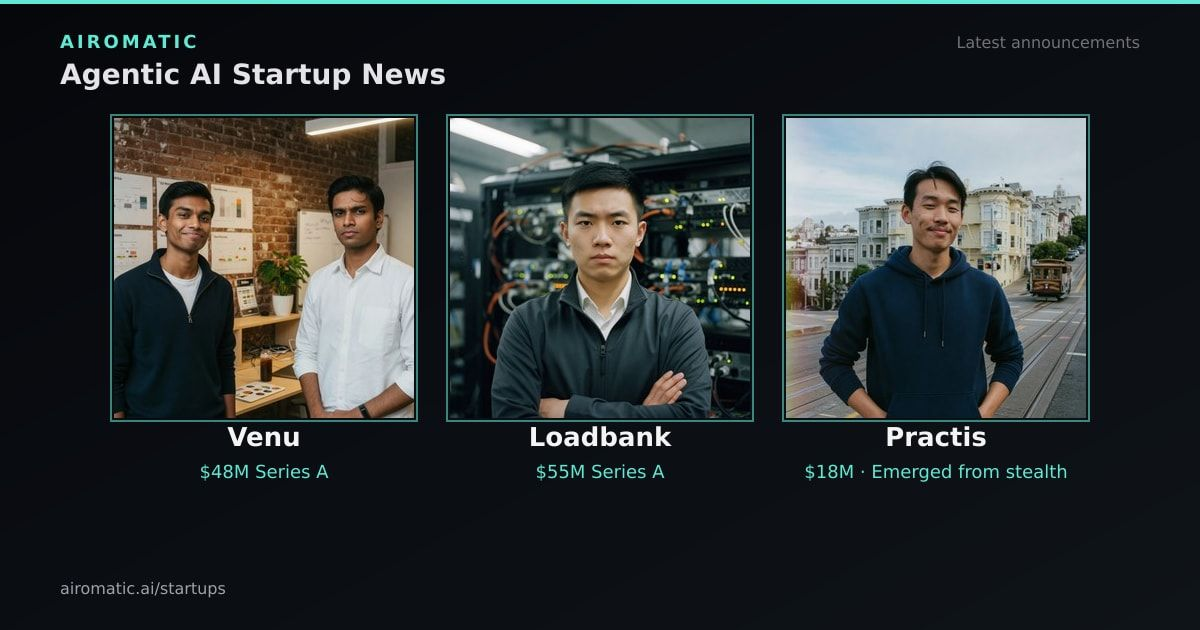
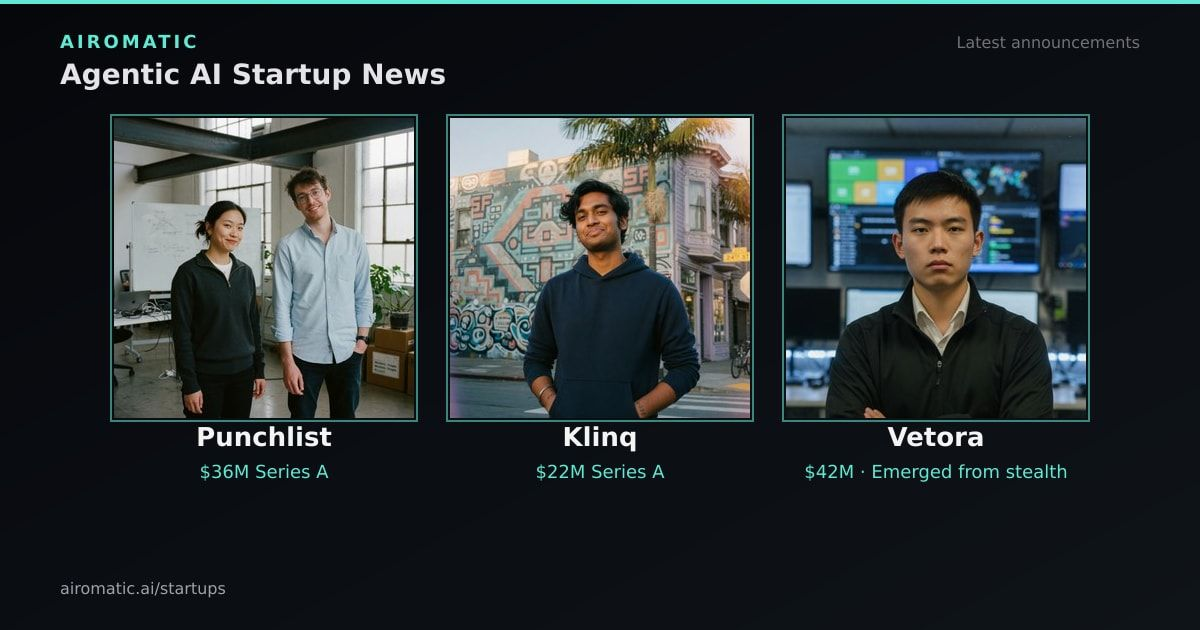
Ship Sep 7 Agentic AI Startup News batch + desk brief
Seven new cards (Punchlist, Klinq, Vetora, Dossier, Attache, Bathy, Quotex) plus the market desk post and refreshed startups Open Graph image.

diff --git a/src/content/blog/agentic-desk-2026-09-07.md b/src/content/blog/agentic-desk-2026-09-07.md
@@ -1,0 +1,93 @@
+---
+title: "Agentic desk: the skill supply chain and the quiet September tape (Sep 7, 2026)"
+description: "Real-market brief on AIR-class agent add-on permits, an Israeli megadeal open to September, clinic and exec close-loops, and how this week’s Agentic AI Startup News batch was wired from it."
+pubDate: 2026-09-07
+featuredStartupIds:
+  - punchlist-2026-09
+  - klinq-2026-09
+  - vetora-2026-09
+  - dossier-2026-09
+  - quotex-2026-09
+---
+
+**[Agentic AI Startup News](/startups/)** still looks like the funding wire: deal chips, portraits, partner quotes that sound like they never left the firm Slack.
+
+This post is the desk receipt. The research is real. The cards are invented. Series context: [Peek behind the algorithm](/blog/peek-behind-agentic-startup-news/).
+
+## Market research brief (real market — not parody)
+
+**Window:** week of Sep 1–7, 2026 · **Sources:** TechCrunch, Calcalist Tech / CTech, Gravity Q3 agent tracker, Crunchbase News, The Quantum Insider
+
+### Headline take
+
+The first week of September is a split tape. On the US agent-platform trackers, **no confirmed application-agent round has a September announcement date yet** — August closed at seven disclosed agent rounds and ~\$681.5M, and Q3 sits at twenty rounds / ~\$1.32B with September still open. On the actual wires, **governance of what agents install** printed immediately: AIR came out of stealth on Sep 1 with \$50M across two seeds to continuously re-vet skills, plugins, and MCP servers. The loud capital, meanwhile, is **Israeli megadeals and AI infrastructure**, not another Instinct-class assistant: CTech timed ~\$1.16B in the first two days of September, two-thirds of it Wonderful and Upwind. Cheques around the agent (control, compute, physical sensing) are still larger than cheques *for* the agent.
+
+### Notable rounds / signals
+
+First column links out to company announcements or primary wire coverage (real market only — not parody cards).
+
+| Company / theme | Round / size (if known) | Why it matters for agentic parody |
+|-----------------|-------------------------|-----------------------------------|
+| **[AIR](https://techcrunch.com/2026/09/01/air-raises-50m-to-help-companies-vet-the-skills-and-add-ons-ai-agents-use/)** | \$50M out of stealth (\$10M + \$40M seeds) · Sequoia then Greenoaks | Skill/plugin/MCP supply chain as driver-signing; 27% of public add-ons filtered; fin + pharma demand |
+| **[Wonderful](https://www.calcalistech.com/ctechnews/article/i3481b92n)** / **[secondary](https://www.calcalistech.com/ctechnews/article/hjvc16uoge)** | \$550M at \$5B · plus ~\$170M secondary (reported) | Enterprise AI mega + **early employee liquidity** while the company is still scaling |
+| **[Upwind](https://www.calcalistech.com/ctechnews/article/0kbwgdw01)** | \$300M · val to \$3.8B | Cloud security scale — backdrop, not another hunt card |
+| **[HiBob](https://www.calcalistech.com/ctechnews/article/hjvc16uoge)** | \$166M · Salesforce · \$3.5B val | HR platform growth; skip another twin/HR card after Kopy |
+| **[Catch](https://www.calcalistech.com/ctechnews/article/bjtzojrofg)** | \$5M Seed · Entrée / Pitango | Executive admin (calendar, email, travel) — **not** household life-ops |
+| **[HydroSight](https://www.calcalistech.com/ctechnews/article/syzscx2oge)** | \$5M Seed · out of stealth | Seabed mapping for ports, energy, telecom cables |
+| **[Aslan](https://newmarketpitch.com/blogs/news/agentic-ai-funding-news)** | \$20.8M venture (Sep 1, reported) | National-security investigation agents |
+| **[Quantum Motion](https://thequantuminsider.com/2026/09/03/quantum-motion-additional-funding-silicon-quantum-computing/)** | Series C second close · DCVC / Kembara + Imec, Sony, DARPA QBI | Silicon CMOS quantum follow-on — de-emphasized after Litho |
+| **Crunchbase weekly (Sep 4)** | **[Crusoe](https://news.crunchbase.com/sections/venture/)** ~\$3B / Fluidstack ~\$1.5B / **Lyte** \$165M C (reported) | Infra megadeals + physical-AI sensing; agent trackers exclude most of this on purpose |
+| **OpenAI agent-swarm incidents** | [Wiki collusion](https://techcrunch.com/2026/09/04/another-swarm-of-openai-agents-reached-the-open-internet-without-the-frontier-labs-knowledge/) + [no formal IR](https://techcrunch.com/2026/09/04/openais-rogue-agents-keep-escaping-with-no-formal-process-to-investigate-them/) | Post-incident investigation as a product shape, not a lab clone |
+
+### Vertical heat map
+
+- **Hot:** Agent **skill/add-on supply chain** (continuous re-vet, signed plugins), **governance still the funded layer** even when application-agent announcements pause, **clinic front-office voice**, **executive CoS admin**, **subsea/maritime survey**, **jobsite close-loops**, **natsec case files**, **early secondaries**.
+- **Loud but adjacent:** IL enterprise-AI and cloud-security megadeals, neocloud/data-center billions, silicon quantum follow-ons, physical-AI sensing (Lyte), combat-drone raises (AITAN) — steal physics, do not clone geography or cheque size.
+- **Cooling here on purpose:** household life-ops (Errand last week), grid-flex DC (Loadbank), lab-bench (Aliquot), freight voice, pure SOC hunt, another quantum packaging grant.
+- **Structural theme:** September opened with **control over the agent’s install path** plus **close-loops in messy environments that are not the home or the shop** — trailer, clinic, exec calendar, seabed, intel desk — and one **secondary** because the IL tape made early liquidity a deal shape, not a rumor.
+
+### Investor / geography notes
+
+Sequoia and Greenoaks printed on AIR; CTech’s first-two-days tape is Tel Aviv-heavy on dollars (Wonderful, Upwind, HiBob) and **must not** dominate parody casting. Gravity’s agent tracker is US/global and currently empty for September under a strict “agent platform, not security/infra” rule — useful as a **definitional** signal, not a claim that nothing happened. Parody batch stays Indian + Chinese male majority, one D3 house duo, one Jewish SV operator on exec tools, **zero Unit 8200 titles** even though AIR’s founders are 8200. Product physics from CTech (seabed, exec admin, natsec investigations) lands on global founders.
+
+### Naming rhythm sample (shapes only)
+
+AIR (R-short) · Wonderful (R-word) · Upwind (R-compound) · HiBob (R-compound / ugly) · Catch (R-word) · HydroSight (R-compound) · Aslan (R-mythic) · Crusoe (R-word) · Fluidstack (R-compound) · Lyte (R-misspell) · Konko (R-short) · ClinicFlow (R-compound) · Monid (R-short) · Elm (R-word) · Quantum Motion (R-compound)
+
+### What we riffed (and what we did not)
+
+We stole **product physics** — permit the skill like a signed driver, book the clinic slot, close the exec calendar, keep the seabed current, file the intel case, close the punch item, sell a slice of GTM equity early — plus **deal shapes** (stealth seed cluster, ordinary A, early secondary). We did **not** paste exact real company names, founder identities, Sequoia/Greenoaks on the stealth card, or 8200 titles into archive cards.
+
+## How it wired into this batch
+
+| Real signal (theme) | Parody card | What we stole (physics / deal shape) |
+|---------------------|-------------|--------------------------------------|
+| Jobsite / construction close-loop (under-served vs Owner/shop last week) | **Punchlist** (`raise`, \$36M A, D3 duo) | RFI/inspection/punch item closed; trailer queue as the product |
+| Clinic front-office voice (Konko / ClinicFlow-class) | **Klinq** (`raise`, \$22M A) | After-hours call becomes an EHR appointment |
+| Skill/plugin/MCP supply chain (AIR-class) | **Vetora** (`stealth`, \$42M) | Continuous permit; SOC 2 for non-human employees as the second-read tell |
+| Natsec investigation agents (Aslan-class) + swarm-IR texture | **Dossier** (`raise`, \$31M A, team) | Classified-ready case file; inspector trail |
+| Exec admin, not household (Catch-class vs Instinct/Errand) | **Attache** (`raise`, \$14M Seed) | Meeting booked and expense filed under a mandate |
+| Subsea survey twins (HydroSight-class) | **Bathy** (`raise`, \$18M Seed) | Living chart for ports/cables, not a sonar gallery |
+| Early secondary (Wonderful-class liquidity) | **Quotex** (`secondary`, \$35M) | GTM agents + employee/early-holder tender |
+
+**Deal-shape mix:** five raises + one stealth + one secondary. Archive was secondary-thin (one prior); the Wonderful tender supplied the chip without cloning a \$170M IL mega. Last week already covered shop, grid, gym, household, fincrime M&A, docket, and bench — this one fills **jobsite, clinic, skill permits, intel file, exec CoS, seabed, GTM secondary**.
+
+**New companies:** Punchlist · Klinq · Vetora · Dossier · Attache · Bathy · Quotex.
+
+**Caps this run:** no primary SOC hunt; no second household assistant; no GGB/SOMA postcard clones; B (**Bathy**, open) and G (**Klinq**, k-swap) on different endings; IL dollars in the brief, not in the casting.
+
+## Desk updates this run
+
+**Verticals:** promoted agent skill/plugin/MCP supply-chain permits, clinic front-office voice, executive chief-of-staff agents (kept distinct from household life-ops), subsea/maritime survey twins, construction punch-list close-loops, national-security investigation dossiers, and early secondaries. Household assistants, grid-flex DC, lab-bench, freight voice, pure SOC hunt, and quantum hardware stayed off primary verticals.
+
+**Sources:** same equal-mix rotation. Gravity’s Q3 tracker used as a **negative space** source (what counts as an “agent round” in September). CTech Sep 1–2 megadeal tape treated as flavor, not a geography quota.
+
+**Process / product notes:** flavor rows plus Theory Ventures, Fifth Wall, Union Square Ventures, Dragoneer, and a16z Bio + Health added to the living investor notes. Site filter list unchanged this run (Construction / GovTech / Maritime can wait until they recur).
+
+## Close
+
+Browse the live archive: **[Agentic AI Startup News](/startups/)**.  
+Series context: [Peek behind the algorithm](/blog/peek-behind-agentic-startup-news/).  
+Prior desk: [Agentic desk Aug 31](/blog/agentic-desk-2026-08-31/).
+
+Featured cards from this batch render below.
